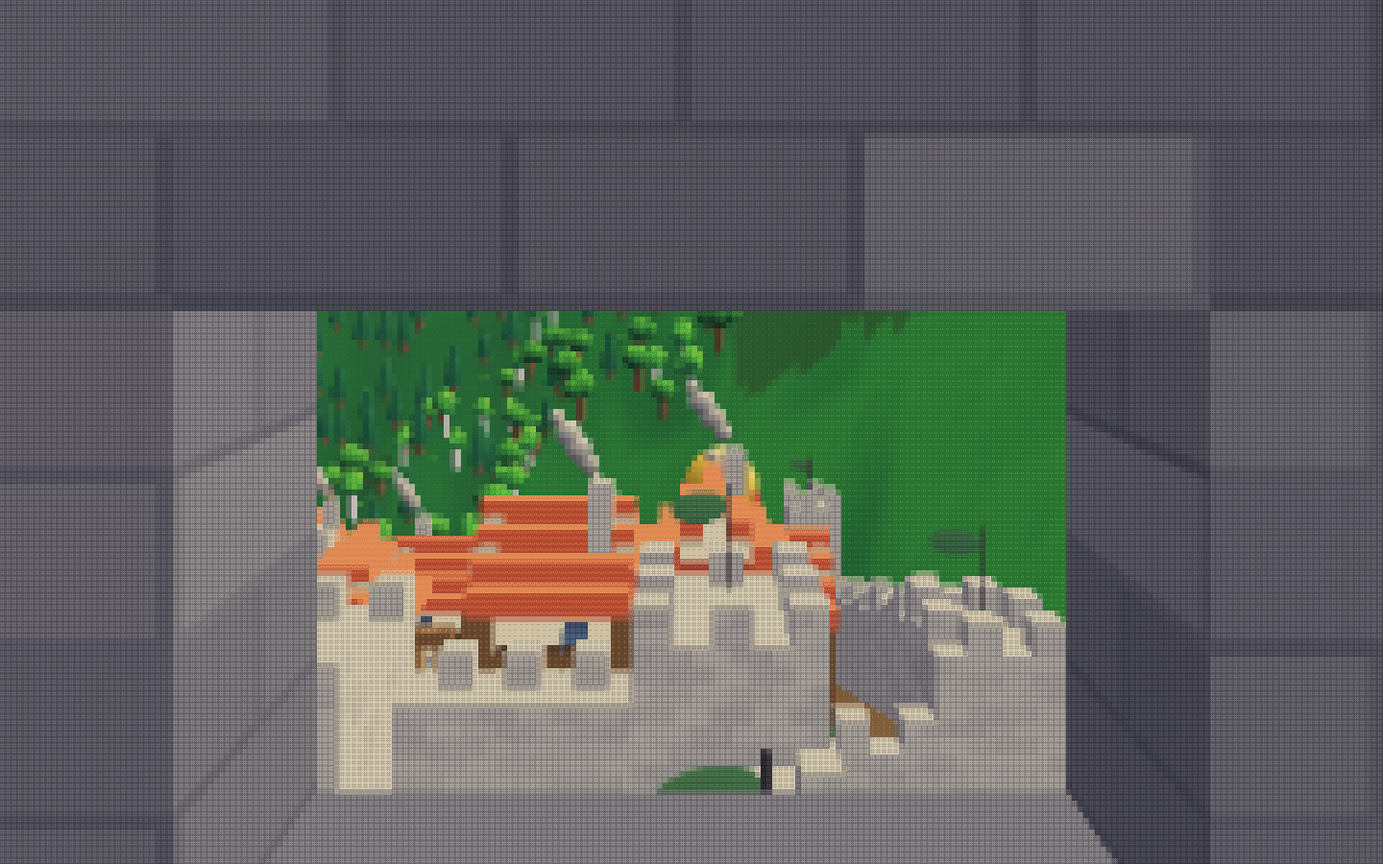
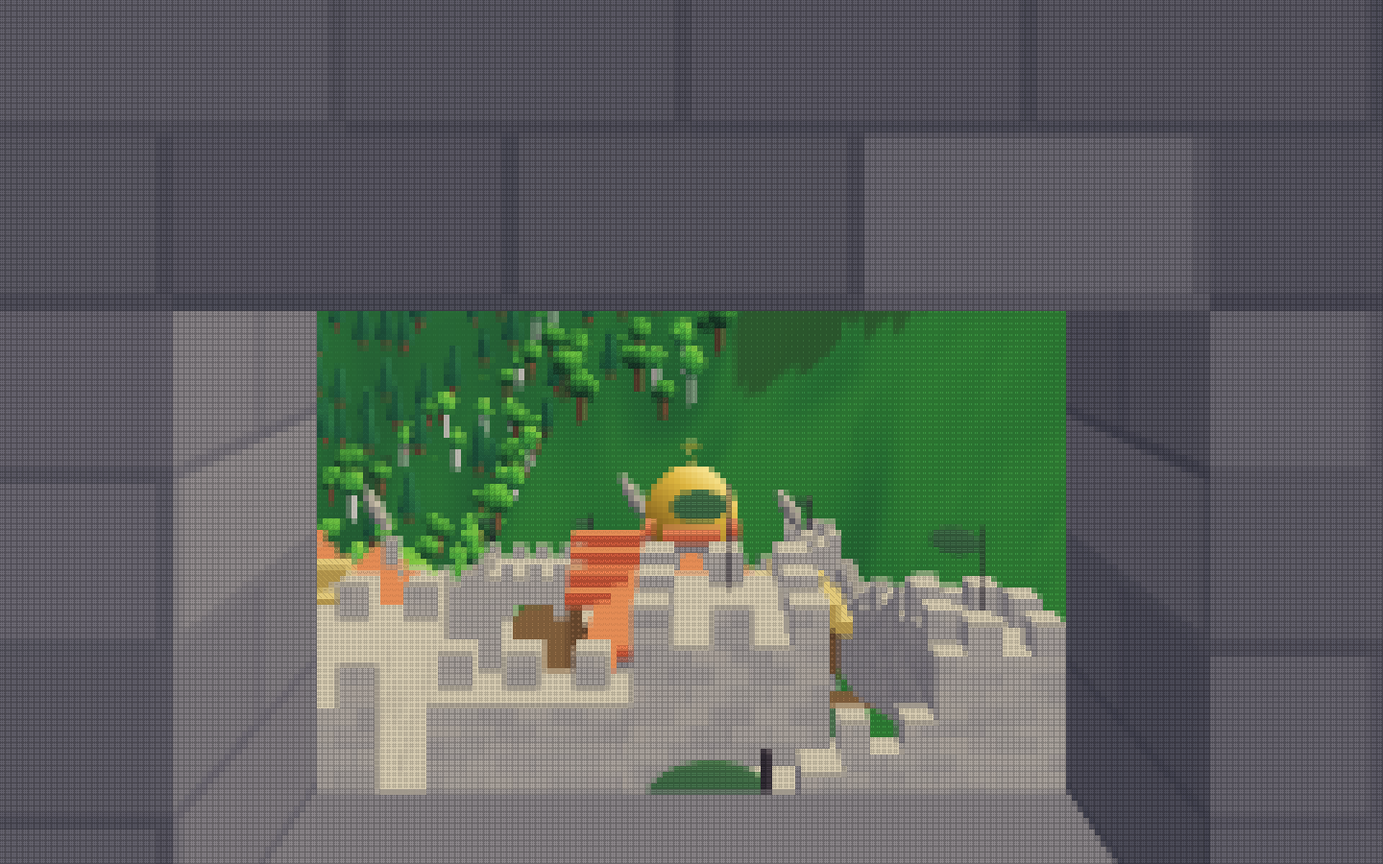
fix the third-person camera in the towns: room in the streets, no giant close-ups
Looking around in the towns felt glitchy: in the 3-wide gates and 5-wide
streets, almost any turn put a wall in the camera's way, so it snapped in to
about 2 cells, the back of the hero's head filling the picture and looking
down at it, then drifted back out, only to be caught again.

- Towns: main and market streets 7 wide (were 5), gates 5 wide (were 3), no
  narrow lanes (houses back onto the walls), houses line the main street
  first. The castle's gate is 5 wide too; its torches stand either side.
- Camera: never shows the hero from closer than 2 cells (it goes into the
  eyes instead); a wall that stops it no longer makes it rise for the ground
  beyond; comes back out faster; starts afresh after a jump (a new world).
- Turning on the spot in the citadel's town: the camera ends closer than 3
  cells in 0% of directions in the upper street (was 42%), 47% in the gate
  (was 69%), with the hero no longer hidden there.
- Tests pass, checksums re-recorded; scenes and step 2 shots re-rendered.

diff --git a/index.html b/index.html
@@ -1069,7 +1069,7 @@ function buildKeep(rng) {
 
 // A castle round a church, in three sizes. A paved courtyard inside a curtain wall two thick and
 // crenellated, towers at its corners (and in the middle of the west wall of the bigger two); a
-// gatehouse in the middle of the south wall, its three-wide passage arched, in line with the church's
+// gatehouse in the middle of the south wall, its passage five wide and arched, in line with the church's
 // door; a stair up to the wall-walk beside it, and a well; the keep in the back left corner; in the
 // bigger two, a great hall along the east wall: a long table with benches and the lord's chair at its
 // head, a fire in the hearth at the end under a chimney, banners on the walls, torches between them.
@@ -1093,10 +1093,10 @@ function buildFortress(kind, rng) {
   };
   tower(S - 5, 0); tower(0, S - 5); tower(S - 5, S - 5);
   if (F.midTower) tower(0, c - 2);
-  T.box(c - 3, 1, S - 6, c + 3, WH + 2, S - 1, ST);                                                   // the gatehouse
-  for (let i = c - 3; i <= c + 3; i += 2) { T.set(i, WH + 3, S - 1, ST); T.set(i, WH + 3, S - 6, ST); }
-  T.box(c - 1, 1, S - 6, c + 1, 4, S - 1, 0);                                                         // its passage, the arch's corners
-  for (const z of [S - 6, S - 1]) { T.set(c - 1, 4, z, ST); T.set(c + 1, 4, z, ST); }
+  T.box(c - 4, 1, S - 6, c + 4, WH + 2, S - 1, ST);                                                   // the gatehouse
+  for (let i = c - 4; i <= c + 4; i += 2) { T.set(i, WH + 3, S - 1, ST); T.set(i, WH + 3, S - 6, ST); }
+  T.box(c - 2, 1, S - 6, c + 2, 5, S - 1, 0);                                                         // its passage five wide, the arch's corners
+  for (const z of [S - 6, S - 1]) { T.set(c - 2, 5, z, ST); T.set(c + 2, 5, z, ST); }
   for (let k = 1; k <= WH; k++) T.box(2, 1, S - 6 - k, 2, k, S - 6 - k, ST);                         // a stair up to the wall-walk, along the west wall
   T.box(c + 4, 1, S - 9, c + 6, 1, S - 7, ST); T.set(c + 5, 1, S - 8, 0); T.set(c + 5, 0, S - 8, 0);   // a well in the forecourt: a ring round a hole
   const keep = buildKeep(rng);                                                                        // the keep, its door on the courtyard
@@ -1615,8 +1615,9 @@ function placeCastles(rng) {
 // A walled town before a castle's gate, laid out in the frame where the gate faces +z: tx across (the
 // castle's gate in line with the middle, mx), tz from the castle's wall out to the town's own gate at
 // TD - 1. A square lies before the castle's gate, as wide as the town; the main street runs from it out
-// through the town's gate, a market street crosses the town halfway, opening into a market square with a
-// well where the two meet, and lanes run inside the side walls. The ground inside the walls is levelled to the street's slope (level across the town,
+// through the town's gate, and a market street crosses the town halfway, opening into a market square
+// with a well where the two meet. The main and market streets are seven wide and the gate five, so the
+// camera behind you has room (and no narrow lanes: the houses back onto the walls). The ground inside the walls is levelled to the street's slope (level across the town,
 // falling with the land from the castle to the gate) and blended back to the land outside. Houses fill
 // the blocks between the streets: the church and the tavern on the market, a smithy by the gate, homes
 // (two storeys, most of them) from the castle outward; each on a plot levelled with the street before its
@@ -1633,20 +1634,19 @@ function buildTown(kind, rng, castle, castleIndex) {
   const drop = clamp(hTop - outer / no, -3, TOWN_SLOPE * townRun(kind)), streetH = tz => hTop - drop * streetDrop(kind, tz);
 
   // the plan: streets, and what is built (walls, towers, the gatehouse, the well, posts, houses)
-  const OPEN = 0, STREET = 1, BUILT = 2, plan = new Uint8Array(TW * TD), zc = SQ + ((TD - 1 - SQ) >> 1), wellX = mx + 4;
+  const OPEN = 0, STREET = 1, BUILT = 2, plan = new Uint8Array(TW * TD), zc = SQ + ((TD - 1 - SQ) >> 1), wellX = mx + 5;
   const put = (x0, z0, x1, z1, v) => { for (let z = z0; z <= z1; z++) for (let x = x0; x <= x1; x++) plan[z * TW + x] = v; };
   const planAt = (x, z) => x < 0 || z < 0 || x >= TW || z >= TD ? BUILT : plan[z * TW + x];
   put(1, 0, TW - 2, SQ - 1, STREET);                                          // the square before the castle
-  put(mx - 2, SQ, mx + 2, TD - 1, STREET);                                    // the main street, out through the gate
-  put(1, zc - 2, TW - 2, zc + 2, STREET); put(mx - 6, zc - 4, mx + 6, zc + 4, STREET);   // the market street, and the market square where it crosses the main street
-  put(1, SQ, 3, TD - 2, STREET); put(TW - 4, SQ, TW - 2, TD - 2, STREET);     // the lanes inside the side walls
+  put(mx - 3, SQ, mx + 3, TD - 1, STREET);                                    // the main street, out through the gate
+  put(1, zc - 3, TW - 2, zc + 3, STREET); put(mx - 6, zc - 5, mx + 6, zc + 5, STREET);   // the market street, and the market square where it crosses the main street
   put(0, 0, 0, TD - 1, BUILT); put(TW - 1, 0, TW - 1, TD - 1, BUILT); put(0, TD - 1, TW - 1, TD - 1, BUILT);
   put(0, 0, mx - hs - 1, 0, BUILT); put(mx + hs + 1, 0, TW - 1, 0, BUILT);   // (the wall's ends, meeting the castle's corners)
   const corners = [[0, 0], [TW - 4, 0], [0, TD - 4], [TW - 4, TD - 4]];
   for (const [x, z] of corners) put(x, z, x + 3, z + 3, BUILT);
-  put(mx - 3, TD - 5, mx + 3, TD - 1, BUILT); put(mx - 1, TD - 5, mx + 1, TD - 1, STREET);   // the gatehouse, its passage
+  put(mx - 4, TD - 5, mx + 4, TD - 1, BUILT); put(mx - 2, TD - 5, mx + 2, TD - 1, STREET);   // the gatehouse, its passage
   put(wellX - 1, zc - 1, wellX + 1, zc + 1, BUILT);
-  const posts = [[mx - 4, SQ - 2], [mx + 4, SQ - 2], [mx - 6, zc - 4], [mx + 6, zc + 4]];
+  const posts = [[mx - 5, SQ - 2], [mx + 5, SQ - 2], [mx - 6, zc - 5], [mx + 6, zc + 5]];
   for (const [x, z] of posts) put(x, z, x, z, BUILT);
 
   // the ground: inside the walls the street's slope, round them blended back to the land over six cells
@@ -1673,7 +1673,7 @@ function buildTown(kind, rng, castle, castleIndex) {
     chapel: (x, z) => Math.abs(z - zc) + Math.abs(x - mx) * 0.5,           // on the market, near the middle
     tavern: (x, z) => (Math.abs(z - zc) + Math.abs(x - wellX)) * 0.2,      // near the market and its well
     smithy: (x, z) => (TD - z) * 0.3,                                       // towards the gate
-    home: (x, z) => (Math.abs(x - mx) + z) * 0.03,                          // (a little: from the castle and the main street outward)
+    home: (x, z) => Math.abs(x - mx) <= 3 && z >= SQ ? 0 : Math.abs(x - mx) <= 6 && Math.abs(z - zc) <= 5 ? 3 : z < SQ ? 5 : 7 + Math.abs(x - mx) * 0.1,   // (the main street lined first, then the squares, then the market street)
   };
   const placed = [];
   for (const kind of kinds) {
@@ -1711,7 +1711,7 @@ function buildTown(kind, rng, castle, castleIndex) {
   // the curtain wall
   const wall = (x, z) => { const top = yOf(around(x, z, Math.max)) + TOWN_WALL; T.box(x, footOf(x, z), z, x, top, z, ST); crenel(x, z, top + 1); };
   for (let z = 0; z < TD; z++) { wall(0, z); wall(TW - 1, z); }
-  for (let x = 1; x < TW - 1; x++) { if (Math.abs(x - mx) > 3) wall(x, TD - 1); if (Math.abs(x - mx) > hs) wall(x, 0); }   // (the gatehouse stands in the outer wall)
+  for (let x = 1; x < TW - 1; x++) { if (Math.abs(x - mx) > 4) wall(x, TD - 1); if (Math.abs(x - mx) > hs) wall(x, 0); }   // (the gatehouse stands in the outer wall)
   // a tower at each corner, a flag on it
   for (const [x0, z0] of corners) {
     let top = 0;
@@ -1722,15 +1722,16 @@ function buildTown(kind, rng, castle, castleIndex) {
     }
     flags.push([x0 + 2, top + 1, z0 + 2]);
   }
-  // the gatehouse: a passage three wide under it, its arch's corners, torches either side of it outside
+  // the gatehouse: a passage five wide under it (room for the camera behind you), its arch's corners,
+  // torches either side of it outside
   const gy = yOf(streetH(TD - 1)), gTop = gy + TOWN_WALL + 2;
-  for (let x = mx - 3; x <= mx + 3; x++) for (let z = TD - 5; z <= TD - 1; z++) {
-    T.box(x, Math.abs(x - mx) <= 1 ? gy + 5 : footOf(x, z), z, x, gTop, z, ST);
-    if (x === mx - 3 || x === mx + 3 || z === TD - 5 || z === TD - 1) crenel(x, z, gTop + 1);
+  for (let x = mx - 4; x <= mx + 4; x++) for (let z = TD - 5; z <= TD - 1; z++) {
+    T.box(x, Math.abs(x - mx) <= 2 ? gy + 6 : footOf(x, z), z, x, gTop, z, ST);
+    if (x === mx - 4 || x === mx + 4 || z === TD - 5 || z === TD - 1) crenel(x, z, gTop + 1);
   }
-  for (const z of [TD - 5, TD - 1]) { T.set(mx - 1, gy + 4, z, ST); T.set(mx + 1, gy + 4, z, ST); }
-  flags.push([mx - 2.5, gTop + 1, TD - 0.5], [mx + 3.5, gTop + 1, TD - 0.5]);
-  torches.push([mx - 2.1, gy + 4.5, TD + 0.4], [mx + 3.1, gy + 4.5, TD + 0.4]);
+  for (const z of [TD - 5, TD - 1]) { T.set(mx - 2, gy + 5, z, ST); T.set(mx + 2, gy + 5, z, ST); }
+  flags.push([mx - 3.5, gTop + 1, TD - 0.5], [mx + 4.5, gTop + 1, TD - 0.5]);
+  torches.push([mx - 3.1, gy + 4.5, TD + 0.4], [mx + 4.1, gy + 4.5, TD + 0.4]);
   // the well on the market square: a ring round a hole on a plinth, a frame over it
   const wy = yOf(streetH(zc)) + 1;
   for (let z = zc - 1; z <= zc + 1; z++) for (let x = wellX - 1; x <= wellX + 1; x++) T.box(x, footOf(x, z), z, x, wy, z, ST);
@@ -1751,7 +1752,7 @@ function buildTown(kind, rng, castle, castleIndex) {
   for (const h of houses) for (const dm of h.domes) world.domes.push([...toWorld(dm), dm[3], dm[4]]);
   const street = [];
   for (let tz = 0; tz < TD; tz++) for (let tx = 0; tx < TW; tx++) if (plan[tz * TW + tx] === STREET) street.push(cellOf(tx, tz));
-  for (let tz = TD; tz < TD + 3; tz++) for (let tx = mx - 1; tx <= mx + 1; tx++) street.push(cellOf(tx, tz));   // (and out to where the road begins)
+  for (let tz = TD; tz < TD + 3; tz++) for (let tx = mx - 2; tx <= mx + 2; tx++) street.push(cellOf(tx, tz));   // (and out to where the road begins)
   const cellXZ = c => ({ x: c & MASK, z: (c / W) | 0 }), out = cellXZ(cellOf(mx, TD)), road = cellXZ(cellOf(mx, TD + 2));
   return {
     type: 'town', variant: kind, cx: tcx, cz: tcz, half: Math.max(R.sx, R.sz) >> 1, baseY, tpl: R, x0, z0,
@@ -2438,7 +2439,7 @@ function placeLights(rng) {
   const torch = (x, y, z) => lights.push({ x: ((x % W) + W) % W, y, z: ((z % W) + W) % W, r: 12, color: [1, 0.62, 0.28], i: 1.1, kind: 'torch', phase: rng() * 10, size: 0.7 });
   for (const s of world.structs) {
     const [ox, oz] = GATE_DIRS[s.gate || 0], out = s.tpl.sz / 2 + 0.4, mx = s.cx + 0.5, mz = s.cz + 0.5;   // (out: just off the gate's face)
-    if (s.type === 'castle') for (const side of [-2.2, 2.2]) torch(mx + ox * out + oz * side, s.baseY + 5.5, mz + oz * out + ox * side);
+    if (s.type === 'castle') for (const side of [-3.3, 3.3]) torch(mx + ox * out + oz * side, s.baseY + 5.5, mz + oz * out + ox * side);   // (either side of the passage)
     else if (s.type === 'tower') torch(mx + ox * out, s.baseY + 4.5, mz + oz * out);
     else if (s.type === 'stones') {
       const fx = s.cx + 3.5, fz = s.cz + 3.5, i = ((fz | 0) & MASK) * W + ((fx | 0) & MASK);
@@ -6004,7 +6005,7 @@ function merchantPose(m, dt) {
 const V3_WADE = 0.55, V3_SIDE = 0.25;   // (how deep the hero is drawn in water; the room the camera keeps from walls to either side:
                                         // less than a one-cell corridor leaves around a walker, whose body is 0.3 across RADIUS)
 const V3_DIST = 6.4, V3_PHI0 = 0.2, V3_PHI_MAX = 0.85, V3_AIM = 1.65, V3_AIM_HIGH = 1.2, V3_PIVOT = 1.85, V3_CLEAR = 0.5, V3_TILT = 1.3;
-const view3 = { on: true, dist: V3_DIST, cur: V3_DIST, lift: 0, face: 0, walked: 0, lastX: NaN, lastZ: NaN, speed: 0, wade: 0, feet: 0 };
+const view3 = { on: true, dist: V3_DIST, cur: V3_DIST, lift: 0, face: 0, walked: 0, lastX: NaN, lastZ: NaN, speed: 0, wade: 0, feet: 0, wall: V3_DIST + 1 };   // (wall: how far back a wall stops the camera)
 const viewCam = { x: 0, y: 0, z: 0, yaw: 0, pitch: 0 };
 const hero = { on: 0, x: 0, y: 0, z: 0, face: 0, walked: 0, moving: 0, gear: 0, air: 0, gy: 0 };   // (air: 0 on the ground, 1 in a jump; gy: the ground under them)
 function solidAt(x, y, z) {   // inside a voxel of a building?
@@ -6048,7 +6049,9 @@ function updateHero(dt) {
   Object.assign(viewCam, { x: cam.x, y: cam.y, z: cam.z, yaw: cam.yaw, pitch: cam.pitch });
   if (!walking) { view3.lastX = NaN; return; }
   // the hero turns toward where they walk, and walks on
-  const fresh = !(view3.lastX === view3.lastX);   // (just switched on, or back from flying: nothing to measure a step from)
+  const jumped = view3.lastX === view3.lastX && Math.hypot(wrapDelta(cam.x - view3.lastX), wrapDelta(cam.z - view3.lastZ)) > 3;   // (moved in one go: a new world, a teleport)
+  const fresh = !(view3.lastX === view3.lastX) || jumped;   // (just switched on, back from flying, or moved: nothing to measure a step from)
+  if (jumped) { view3.cur = view3.dist; view3.lift = 0; view3.wall = V3_DIST + 1; }   // (and the camera starts afresh behind you, rather than swooping in)
   const mx = fresh ? 0 : wrapDelta(cam.x - view3.lastX), mz = fresh ? 0 : wrapDelta(cam.z - view3.lastZ), moved = Math.hypot(mx, mz);
   if (moved > 1e-4 && moved < 3) {
     view3.walked += moved;
@@ -6068,7 +6071,7 @@ function updateHero(dt) {
   const pivot = view3.feet + V3_PIVOT, bx = -Math.cos(cam.yaw), bz = -Math.sin(cam.yaw);
   const phiUser = clamp(V3_PHI0 - cam.pitch / grid.f * 0.6, -0.08, V3_PHI_MAX);
   let need = -1;   // the lowest angle whose line from the pivot clears the ground behind by V3_CLEAR
-  for (let h = 0.5, reach = view3.dist * Math.cos(phiUser) + 0.01; h <= reach; h += 0.25) {
+  for (let h = 0.5, reach = Math.min(view3.dist, view3.wall + 0.5) * Math.cos(phiUser) + 0.01; h <= reach; h += 0.25) {   // (a wall behind: no rising for the ground beyond it)
     need = Math.max(need, Math.atan2(terrainHeight(cam.x + bx * h, cam.z + bz * h) + V3_CLEAR - pivot, h));
   }
   const wantLift = clamp(need - phiUser, 0, V3_PHI_MAX - phiUser);
@@ -6076,15 +6079,18 @@ function updateHero(dt) {
   const phi = phiUser + view3.lift, cph = Math.cos(phi), sph = Math.sin(phi);
   // ...and in front of anything still in the way (walls with a little room to the sides, so the lens
   // never grazes a wall's corner)
-  let want = view3.dist;
+  let want = view3.dist, wall = Infinity;
   const sx = -bz * V3_SIDE, sz = bx * V3_SIDE;
   for (let s = 0.5; s < view3.dist + 0.25; s += 0.25) {
     const d = Math.min(s, view3.dist), px = cam.x + bx * d * cph, pz = cam.z + bz * d * cph, py = pivot + d * sph;   // (to the camera's own spot)
-    if (terrainHeight(px, pz) > py - V3_CLEAR + 0.05 || solidAt(px, py, pz) || solidAt(px + sx, py, pz + sz) || solidAt(px - sx, py, pz - sz)) { want = Math.max(0.5, d - 0.45); break; }
+    const ground = terrainHeight(px, pz) > py - V3_CLEAR + 0.05;
+    if (ground || solidAt(px, py, pz) || solidAt(px + sx, py, pz + sz) || solidAt(px - sx, py, pz - sz)) { want = Math.max(0.5, d - 0.45); if (!ground) wall = d; break; }
   }
-  view3.cur = want < view3.cur ? want : view3.cur + (want - view3.cur) * Math.min(1, dt * 2.5);
+  view3.wall = wall < view3.wall ? wall : view3.wall + (Math.min(wall, V3_DIST + 1) - view3.wall) * Math.min(1, dt * 3);   // (nearer at once, further off gently)
+  view3.cur = want < view3.cur ? want : view3.cur + (want - view3.cur) * Math.min(1, dt * 4);
   // Squeezed right up behind them, the camera slides into their eyes (e: 1 behind them, 0 in their
-  // eyes), and turns from looking at them to where the eyes look.
+  // eyes), and turns from looking at them to where the eyes look. The hero is hidden once the camera is
+  // within 2 of them, so a squeeze never fills the picture with the back of their head.
   const D = view3.cur, e = clamp((D - 1.1) / 1.2, 0, 1), hd = D * cph * e;
   viewCam.x = ((cam.x + bx * hd) % W + W) % W; viewCam.z = ((cam.z + bz * hd) % W + W) % W;
   viewCam.y = cam.y + (pivot + D * sph - cam.y) * e;
@@ -6092,9 +6098,9 @@ function updateHero(dt) {
   const aim = V3_AIM + (V3_AIM_HIGH - V3_AIM) * clamp((phi - 0.45) / 0.4, 0, 1);   // (from high up, lower, so their feet stay in the picture)
   const look = clamp((view3.feet + aim - viewCam.y) / Math.max(0.5, hd) * grid.f, -grid.h * V3_TILT, grid.h * 1.3);   // looking at the hero's head
   viewCam.pitch = cam.pitch + (look - cam.pitch) * smoothstep(0.35, 0.75, e);
-  if (e < 0.5) hero.on = 0;
+  if (hd < 2) hero.on = 0;
 }
-function setThird(on) { view3.on = !!on; view3.lastX = NaN; view3.cur = view3.dist; view3.lift = 0; updateHero(0); }
+function setThird(on) { view3.on = !!on; view3.lastX = NaN; view3.cur = view3.dist; view3.lift = 0; view3.wall = V3_DIST + 1; updateHero(0); }
 window.addEventListener('keydown', e => {
   if (e.target === seedInput || ui.open || e.repeat || e.code !== 'KeyV') return;
   setThird(!view3.on);

diff --git a/docs/phase4.md b/docs/phase4.md
@@ -134,11 +134,11 @@ Shots: `shots/phase4/step2/` (`sheet-towns`, `sheet-in-town`, `sheet-wild`, `she
   - a square before the castle's gate, as wide as the town;
   - the main street, from the square down through the town to the town's gate, climbing with the land;
   - a market street across the town halfway, opening into a market square with a well where it crosses the main street, torches at its corners;
-  - lanes inside the side walls;
+  - lanes inside the side walls (at first: they went after step 2, see below);
   - the ground inside the walls levelled to the street's slope (level across the town, falling from the castle to the gate), and blended back to the land outside;
   - houses packed into the blocks between the streets, each where it fits most snugly against the streets, the walls and the houses already there (so they stand in rows), its door on a street, its plot levelled with the street before its door. The church and the tavern stand on the market, a smithy toward the gate, and homes fill the rest, most of them townhouses: two storeys, timber-framed, windows on both floors, a beam at the storey line. A small castle's town has no church of its own (the castle's chapel serves it);
   - a wall five high with crenels, a tower at each corner and a gatehouse over the main street with a torch either side, its ends meeting the castle's corners; flags in the castle's colours on its towers;
-  - 8 to 18 houses; windows glow and torches burn at night, chimneys smoke;
+  - 8 to 18 houses (7 to 17 since the fix after step 2); windows glow and torches burn at night, chimneys smoke;
   - fields round it: no trees within 22 cells of its walls.
 - **Where you start:** before the gate of the biggest castle's town, looking up its street to the castle (`spawnAt`, through a listed fix to v1's `spawn`), where the ground behind you is open, so the camera shows you the town.
 - **Watchtowers on the passes** (`placeTowers`). Once the roads are laid, a tower stands beside every road that climbs 8 or more above both its ends, near the top of the climb, 11 to 20 cells off the road, its door toward it. Where fewer than three roads cross passes, the high points of the longest roads get one. Three to five a world, 90 apart at least. A tower's levelling never touches a road, and the way from its door is walkable.
@@ -185,3 +185,50 @@ Shots: `shots/phase4/step2/` (`sheet-towns`, `sheet-in-town`, `sheet-wild`, `she
 - Watchtowers stand where the roads happen to climb; once step 3's roads go over real passes, they will mean more.
 - Seed 1234 has no site with room for a citadel, so it has fortresses and small castles only.
 - The castle walls' insides are still plain (no galleries).
+
+## After step 2: the camera in the towns
+
+Martin, trying step 2 (30 Sep): looking around felt glitchy and skipping, like a fish lens looking down; the game moved the camera by itself. It had worked in the version before.
+
+Shots: `shots/phase4/step2/sheet-camera` (the same walk through the town's gate, before the fix and after).
+
+### What was wrong
+
+- The camera's code had hardly changed (step 2 added one check, of its own spot). What changed is where you play: you now start before a town's gate and walk straight into its streets.
+- The camera stays 6.4 cells behind you and comes in closer when something is in the way. In the town's gate, three cells wide, and its streets, five wide, almost any turn of the mouse put a house or the gate's wall in its way:
+  - it snapped in to about 2 cells in a single frame;
+  - there, the back of the hero's head filled the picture, looking down at it (the fish lens);
+  - it drifted back out over a second or two, only to be caught again.
+- Step 1's start was an open field, where this was rare; the same happened in its castle's gate.
+
+### The fix
+
+- **Room in the towns:**
+  - the main street and the market street are seven wide (they were five);
+  - the town's gate and the castle's gate are five wide (they were three);
+  - the narrow lanes inside the side walls are gone: the houses back onto the walls;
+  - houses line the main street first, then the squares, then the market street.
+- **The camera:**
+  - it never shows the hero from closer than 2 cells: squeezed nearer, it goes into their eyes (before, the back of their head filled the picture);
+  - when a wall stops it, it no longer rises to clear the ground beyond the wall (that rise made it look steeply down from close up);
+  - it comes back out faster once the way is clear;
+  - after a jump in place (a new world with R), it starts afresh behind you instead of swooping in from where it was.
+
+### Numbers
+
+- Turning a full circle at fixed spots in the citadel's town: the share of directions in which the camera ends up closer than 3 cells (in brackets, those in which the hero is hidden).
+
+  | Spot | Before | After |
+  |---|---|---|
+  | The town's gate | 69% (53%) | 47% (0%) |
+  | The upper street | 42% | 0% |
+  | The market | 10% | 0% |
+  | The castle's gate | 53% (42%) | 33% (0%) |
+
+- A 27-second tour of the town (in through the gate, up the street looking about, a full turn, along the market street and back):
+  - the hero shown from closer than 2.5 cells on 17 frames (70 before);
+  - looking down more than 30° on none (36 before);
+  - 9 snaps of more than a cell (12 before).
+- ⚠ The towns hold fewer houses: 7 or 8 in a small castle's town (10 to 12 before), 8 to 11 in a fortress's, 14 to 17 in the citadel's.
+- ⚠ On the steep forest walk of the tests, you see through the hero's eyes on 68 frames where before the back of their head filled the picture. The camera is where it was.
+- Tests: all pass, with the world checksums re-recorded. The house walks go into all 501 houses on the five test seeds.

diff --git a/README.md b/README.md
@@ -39,7 +39,7 @@ In the address: `?seed=42` for a given world, `?look=mosaic`, and `?weather=rain
 
 - **[docs/phase2-world.md](docs/phase2-world.md)**: the phase 2 brief (in progress). Varied land, villages and towns, people and animals, and the tests that change with the world.
 - **[docs/phase2.md](docs/phase2.md)**: phase 2 as it is built. Step 1: eight regions, terrain shaped per region, new ground materials, rock strata ([pictures](shots/phase2/sheet-regions.png)). Then the painted look, shadows and water mirrors ([mosaic and painted side by side](shots/phase2/sheet-looks-1.png)). Step 2, the land: plants for every region, bridges, and weather with fireflies and auroras at night ([regions](shots/phase2/step2/sheet-regions.png), [bridges](shots/phase2/step2/sheet-bridges.png), [weather](shots/phase2/step2/sheet-weather.png)).
-- **[docs/phase4.md](docs/phase4.md)**: phase 4, a world that makes sense (in progress). Step 1: castles built round an Orthodox church (iconostasis, frescoes, candles, domes), with a keep and its bell, a great hall, and village chapels as small churches ([castles](shots/phase4/step1/sheet-castles.png), [inside](shots/phase4/step1/sheet-castle-inside.png), [the chapel](shots/phase4/step1/sheet-chapel.png)). Step 2: a castle to each part of the land, each facing a walled town at its foot, with watchtowers on the passes and ruins in the wild ([towns](shots/phase4/step2/sheet-towns.png), [inside a town](shots/phase4/step2/sheet-in-town.png), [towers and ruins](shots/phase4/step2/sheet-wild.png), [maps](shots/phase4/step2/sheet-maps.png)). Next: roads, ground, mountains you can climb.
+- **[docs/phase4.md](docs/phase4.md)**: phase 4, a world that makes sense (in progress). Step 1: castles built round an Orthodox church (iconostasis, frescoes, candles, domes), with a keep and its bell, a great hall, and village chapels as small churches ([castles](shots/phase4/step1/sheet-castles.png), [inside](shots/phase4/step1/sheet-castle-inside.png), [the chapel](shots/phase4/step1/sheet-chapel.png)). Step 2: a castle to each part of the land, each facing a walled town at its foot, with watchtowers on the passes and ruins in the wild ([towns](shots/phase4/step2/sheet-towns.png), [inside a town](shots/phase4/step2/sheet-in-town.png), [towers and ruins](shots/phase4/step2/sheet-wild.png), [maps](shots/phase4/step2/sheet-maps.png)); then the camera in the towns' narrow streets fixed ([before and after](shots/phase4/step2/sheet-camera.png)). Next: roads, ground, mountains you can climb.
 - **[docs/phase3.md](docs/phase3.md)**: phase 3, your hero in a bigger world. Step 1: a steady picture (flicker cut 3–10 times). Step 2: a world four times the size, with open fields, landforms twice as big and bolder colours ([regions](shots/phase3/step2/sheet-regions.png), [aerials](shots/phase3/step2/sheet-aerials.png)). Step 3: third person, your hero seen from behind ([your hero](shots/phase3/step3/sheet-hero.png), [how they move](shots/phase3/step3/sheet-moves.png), [eyes and hero side by side](shots/phase3/step3/sheet-first-third.png)). Step 4: what you buy shows on your hero, and a lantern lights the way at night ([gear](shots/phase3/step4/sheet-gear.png), [tunics](shots/phase3/step4/sheet-tunics.png), [the lantern](shots/phase3/step4/sheet-night.png)). Step 5: villages and hamlets you can walk into, windows lit at night, chimney smoke, flags on the castles ([villages](shots/phase3/step5/sheet-village.png), [inside](shots/phase3/step5/sheet-inside.png)).
 - **[docs/phase1.md](docs/phase1.md)** covers the build:
   - how a frame is drawn, and the 3D merchants and trees;

diff --git a/CLAUDE.md b/CLAUDE.md
@@ -120,7 +120,7 @@ Test harness notes:
   - cliff faces right in front of you are blocky, with a break at the horizon line;
   - palm fronds are tubes up close, and canopies look faceted;
   - merchant faces and outfits are simple;
-  - third person: the camera goes into your eyes on slopes steeper than about 50° and with your back to a wall; looking down steeply stretches upright things a little (the tilt is a shear); a flower at the lens is a big flat blob; the hero's green tunic is close to the fields' green;
+  - third person: the camera goes into your eyes on slopes steeper than about 50°, with your back to a wall and in doors and gates (it snaps in; it never shows the hero from closer than 2 cells); looking down steeply stretches upright things a little (the tilt is a shear); a flower at the lens is a big flat blob; the hero's green tunic is close to the fields' green;
   - gear: nothing to sell and no way to earn gold (v1's trade); what you own is always worn; the things at the belt are small;
   - settlements: on steep land a village gets few houses and steep grass between its plots; houses have one room;
-  - towns: every town has the same plan; on a steep slope house footings show along the street; watchtowers stand where v1's roads happen to climb.
+  - towns: every town has the same plan, its streets wide for the camera (so a small castle's town holds only 7 or 8 houses); on a steep slope house footings show along the street; watchtowers stand where v1's roads happen to climb.
